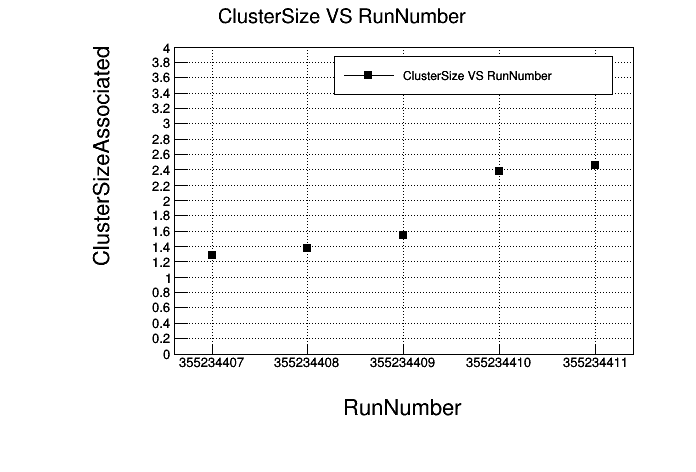
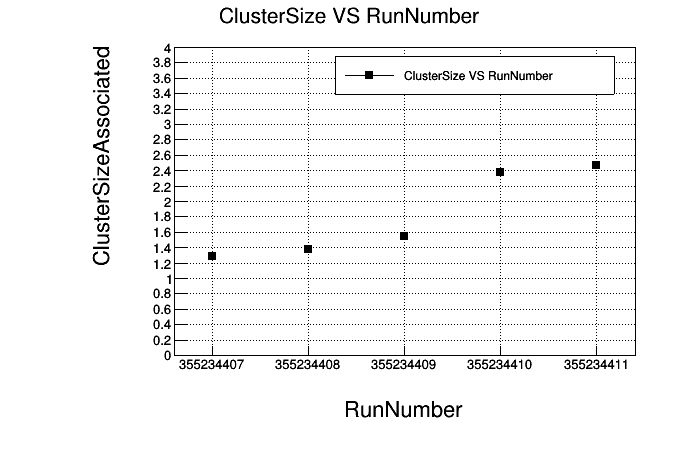
updated clusterVSrun.cpp and corresponding plotter. Updated comments and description. Functionalities are OK

diff --git a/cluster/plotter_clusterVSrun.cpp b/cluster/plotter_clusterVSrun.cpp
@@ -1,72 +1,89 @@
-// Riccardo Ricci
-// January 8th, 2021
-// Updated January 26th, 2021
+/* Riccardo Ricci
+ created in 2021, January 10th
+
+
+ ::::::::::::::::::::::::
+ plotter_clusterVSrun.cpp
+ ::::::::::::::::::::::::
+GENERAL STRUCTURE: 
+The following macro builds a simple TGraph by taking some clusterVSrun.csv file, which is the output of clusterVSrun.cpp.
+There are 2 functions: the first takes no argument, the second the 2 run number taken as range selectors.
 
 
 
-// ::::::::::::::::::::::::::::: CLUSTERSIZE VS RUN PLOTTER ::::::::::::::::::::::::::::::::::://
-// the following macro builds a simple TGraph by taking some clusterVSrun.csv file, which is the output of clusterVSrun.cpp
-// to execute the macro, type:
-            //  .L plotter_clusterVSrun.cpp   //
-// and then execute the function 
-			//  plotter_clusterVSrun()			
-// or the corresponding overload
-			//  plotter_clusterVSrun(run1, run2);
+:::::::::::::::::::::::::::::::::::::::::::::::::::::::::::::::::
+ INSTRUCTIONS
+ launch these macros from the main ./ folder. 
+
+ 1. Open ROOT on your terminal
+ 2. ".L ./cluster/plotter_clusterVSrun.cpp" 
+ 3. execute the function by calling it: 
+
+            "plotter_clusterVSrun()" 
+    
+    or alternatively the corresponding overload
+
+            "plotter_clusterVSrun(run1, run2);"
+
+ It is analogously possible to use a ROOT C++ notebook (SWAN, Jupyter) and run the same commands
+ (use .L or the #include "./cluster/clusterVSrun.cpp" depending on your preferences)
+:::::::::::::::::::::::::::::::::::::::::::::::::::::::::::::::::*/
+
 
 
 void plotter_clusterVSrun(){
+// :::::::::::::::::::::::   GRAPH   :::::::::::::::::::::::::: //
+TGraph *g = new TGraph("./cluster/ClusterSizeAssociatedVSrun.csv", "%lg %lg", ","); 
+//this format applies to .csv files. // %*lg formatting option tells to avoid that certain column eventually.
+    TCanvas *canvas = new TCanvas;
+    g->SetTitle("ClusterSize VS RunNumber");
+    canvas->SetGrid();
+    canvas->Draw();
+        canvas->SetRightMargin(0.09);
+        canvas->SetLeftMargin(0.25);
+        canvas->SetBottomMargin(0.25);
 
-    // :::::::::::::::::::::::   GRAPH   :::::::::::::::::::::::::: //
-    TGraph *g = new TGraph("../cluster/ClusterSizeAssociatedVSrun.csv", "%lg %lg", ","); 
-	//this format applies to .csv files. // %*lg formatting option tells to avoid that certain column eventually.
-TCanvas *canvas = new TCanvas;
-g->SetTitle("ClusterSize VS RunNumber");
-canvas->SetGrid();
-canvas->Draw();
-	canvas->SetRightMargin(0.09);
-    canvas->SetLeftMargin(0.25);
-    canvas->SetBottomMargin(0.25);
+        //markers
+        g->SetMarkerStyle(21);
+        g->SetMarkerColor(1);
+        g->SetMarkerSize(1);
+        //g.SetMarkerLineWidth(0);
 
-    //markers
-    g->SetMarkerStyle(21);
-    g->SetMarkerColor(1);
-    g->SetMarkerSize(1);
-    //g.SetMarkerLineWidth(0);
+        //X axis
+    TAxis *X = g->GetXaxis();
+        X->SetTitle("RunNumber");
+        X->SetTitleOffset(1.4);
+        X->SetTitleSize(0.05);
+        X->CenterTitle();
+        X->SetNdivisions(5);
+        X->SetLabelSize(0.03);
+        X->SetNoExponent(kTRUE);
 
-    //X axis
-TAxis *X = g->GetXaxis();
-    X->SetTitle("RunNumber");
-    X->SetTitleOffset(1.4);
-    X->SetTitleSize(0.05);
-    X->CenterTitle();
-    X->SetNdivisions(5);
-    X->SetLabelSize(0.03);
-    X->SetNoExponent(kTRUE);
+        //Y axis
+    TAxis *Y = g->GetYaxis();
+        Y->SetTitle("ClusterSizeAssociated");
+        Y->SetTitleOffset(1.4);
+        Y->SetRangeUser(0,4);
+        Y->SetTitleSize(0.05);
+        //g.GetYaxis()->CenterTitle();
+        Y->SetNdivisions(20);
+        Y->SetTitleOffset(1.3); 
+        Y->SetLabelSize(0.03); 
 
-    //Y axis
-TAxis *Y = g->GetYaxis();
-    Y->SetTitle("ClusterSizeAssociated");
-    Y->SetTitleOffset(1.4);
-    Y->SetRangeUser(0,4);
-    Y->SetTitleSize(0.05);
-    //g.GetYaxis()->CenterTitle();
-    Y->SetNdivisions(20);
-    Y->SetTitleOffset(1.3);
-    Y->SetLabelSize(0.03);
-
-g->Draw("AP");
+    g->Draw("AP");
+        
     
-   
-    
-// :::::::::::::::::::::::   LEGEND   :::::::::::::::::::::::::: //
-TLegend *legend = new TLegend(0.48,0.8,0.88,0.88);
-    legend->AddEntry(g);
-    legend->Draw();
+        
+    // :::::::::::::::::::::::   LEGEND   :::::::::::::::::::::::::: //
+    TLegend *legend = new TLegend(0.48,0.8,0.88,0.88); //arguments(x1,y1,x2,y2)
+        legend->AddEntry(g);
+        legend->Draw();
 
-    // and finally...
-canvas->Draw();
-    canvas->Print("../cluster/ClusterVSrun.png");
-	}; 
+        // and finally...
+    canvas->Draw();
+        canvas->Print("./cluster/ClusterVSrun.png");
+
+} // end function
 
 
 
@@ -74,54 +91,53 @@ canvas->Draw();
 
 
 // the following is a simple overload which implements 2 run as lower and upper values for the run interval/period.
-void plotter_clusterVSrun(int run1, int run2){// Tgraph setting
-
+void plotter_clusterVSrun(int run1, int run2){
     
     // :::::::::::::::::::::::   GRAPH   :::::::::::::::::::::::::: //
-TGraph *g = new TGraph("../cluster/ClusterSizeAssociatedVSrun.csv", "%lg %lg %*lg", ","); //this format applies to .csv files. // %*lg formatting option tells to avoid that certain column. TCanvas *canvas = new TCanvas;
-g->SetTitle("ClusterSize VS RunNumber");
-TCanvas *canvas = new TCanvas;
-canvas->SetGrid();
-canvas->Draw();
+    TGraph *g = new TGraph("./cluster/ClusterSizeAssociatedVSrun.csv", "%lg %lg %*lg", ","); //this format applies to .csv files. // %*lg formatting option tells to avoid that certain column. TCanvas *canvas = new TCanvas;
+    g->SetTitle("ClusterSize VS RunNumber");
+    TCanvas *canvas = new TCanvas;
+    canvas->SetGrid();
+    canvas->Draw();
 
-    //markers
-    g->SetMarkerStyle(21);
-    g->SetMarkerColor(1);
-    g->SetMarkerSize(1);
-    //g.SetMarkerLineWidth(0);
+        //markers
+        g->SetMarkerStyle(21);
+        g->SetMarkerColor(1);
+        g->SetMarkerSize(1);
+        //g.SetMarkerLineWidth(0);
 
-    //X axis
-TAxis *X = g->GetXaxis();
-    X->SetTitle("RunNumber");
-    X->SetTitleOffset(1.4);
-    X->SetTitleSize(0.04);
-    X->CenterTitle();
-    //X->SetNdivisions();
-    X->SetTitleOffset(1.3);
-    X->SetLabelSize(0.03);
-	X->SetRangeUser(run1-0.5,run2+0.5);
+        //X axis
+    TAxis *X = g->GetXaxis();
+        X->SetTitle("RunNumber");
+        X->SetTitleOffset(1.4);
+        X->SetTitleSize(0.04);
+        X->CenterTitle();
+        //X->SetNdivisions(); //uncomment to fix some graphics when changing run number range. Accepts int as argument.
+        X->SetTitleOffset(1.3);
+        X->SetLabelSize(0.03);
+        X->SetRangeUser(run1-0.5,run2+0.5);
 
-    //Y axis
-TAxis *Y = g->GetYaxis();
-    Y->SetTitle("ClusterSizeAssociated");
-    Y->SetTitleOffset(1.4);
-    Y->SetRangeUser(1,2);
-    Y->SetTitleSize(0.04);
-    //g.GetYaxis()->CenterTitle();
-    Y->SetNdivisions(20);
-    Y->SetTitleOffset(1.3);
-    Y->SetLabelSize(0.03);
-g->Draw("AP");
+        //Y axis
+    TAxis *Y = g->GetYaxis();
+        Y->SetTitle("ClusterSizeAssociated");
+        Y->SetTitleOffset(1.4);
+        Y->SetRangeUser(1,2);
+        Y->SetTitleSize(0.04);
+        //g.GetYaxis()->CenterTitle();
+        Y->SetNdivisions(20);
+        Y->SetTitleOffset(1.3);
+        Y->SetLabelSize(0.03);
+    g->Draw("AP");
+        
     
-   
-    
-// :::::::::::::::::::::::   LEGEND   :::::::::::::::::::::::::: //
-TLegend *legend = new TLegend(0.48,0.8,0.88,0.88);
-    legend->AddEntry(g);
-    legend->Draw();
+        
+    // :::::::::::::::::::::::   LEGEND   :::::::::::::::::::::::::: //
+    TLegend *legend = new TLegend(0.48,0.8,0.88,0.88);
+        legend->AddEntry(g);
+        legend->Draw();
 
-    
-    // and finally...
-canvas->Draw();
-    canvas->Print("../cluster/ClusterVSrun.png");
+        
+        // and finally...
+    canvas->Draw();
+        canvas->Print("./cluster/ClusterVSrun.png");
 } // overload-END

diff --git a/cluster/clusterVSrun.cpp b/cluster/clusterVSrun.cpp
@@ -9,7 +9,7 @@ GENERAL STRUCTURE:
     1. "if" loop to scan inside the targeted folder searching for .root files
         2. internal "while" cycle to loop over each .root file
             3. a) sub-internal "if" to select only certain files depending on their name.  
-               b) data extraction and plotting
+               b) clusters extraction and plotting
 
 
 :::::::::::::::::::::::::::::::::::::::::::::::::::::::::::::::::
@@ -35,13 +35,13 @@ void clusterVSrun(const char *dirname = "./_data_/August_BENT/", const char *ext
     vector <string> run_number;             //here i will save the names of my root file for many different uses
     TSystemDirectory dir(dirname, dirname); //directory, but in ROOT language
     TList *files = dir.GetListOfFiles();        
-// :::::::::::::  ::::::::::::::::::::::: :::::::::::::::::::::::: //
+    // :::::::::::::  ::::::::::::::::::::::: :::::::::::::::::::::::: //
 
         
     
         
         
-//:::::::::::::::::   if-while external block - I/O PART     :::::::::::::::::::: //
+    //:::::::::::::::::   if-while external block - I/O PART     :::::::::::::::::::: //
     if (files) {
         TSystemFile *file;
         TString fname;
@@ -75,7 +75,6 @@ void clusterVSrun(const char *dirname = "./_data_/August_BENT/", const char *ext
                 //:::::::::::: CLUSTER_SIZE EXTRACTION ::::::::::::::::::::::: //
                 //define some pointers for the 2 histos
                 TH1F *CS;
-                //assing clustersSizeAssociated,clustersSizeAssociatedNormalized to the respective pointers
                     gDirectory->GetObject("clusterSizeAssociated", CS);
                                 
                                 
@@ -121,7 +120,7 @@ void clusterVSrun(const char *dirname = "./_data_/August_BENT/", const char *ext
         }//end while
     }// end external if 
         else {
-            cout << "No .root files found. Change the targeted path. Quitting..." << endl;
+            cout << "No analysis.root files found. Change the targeted path. Quitting..." << endl;
             return 0;
     }//end else
     
